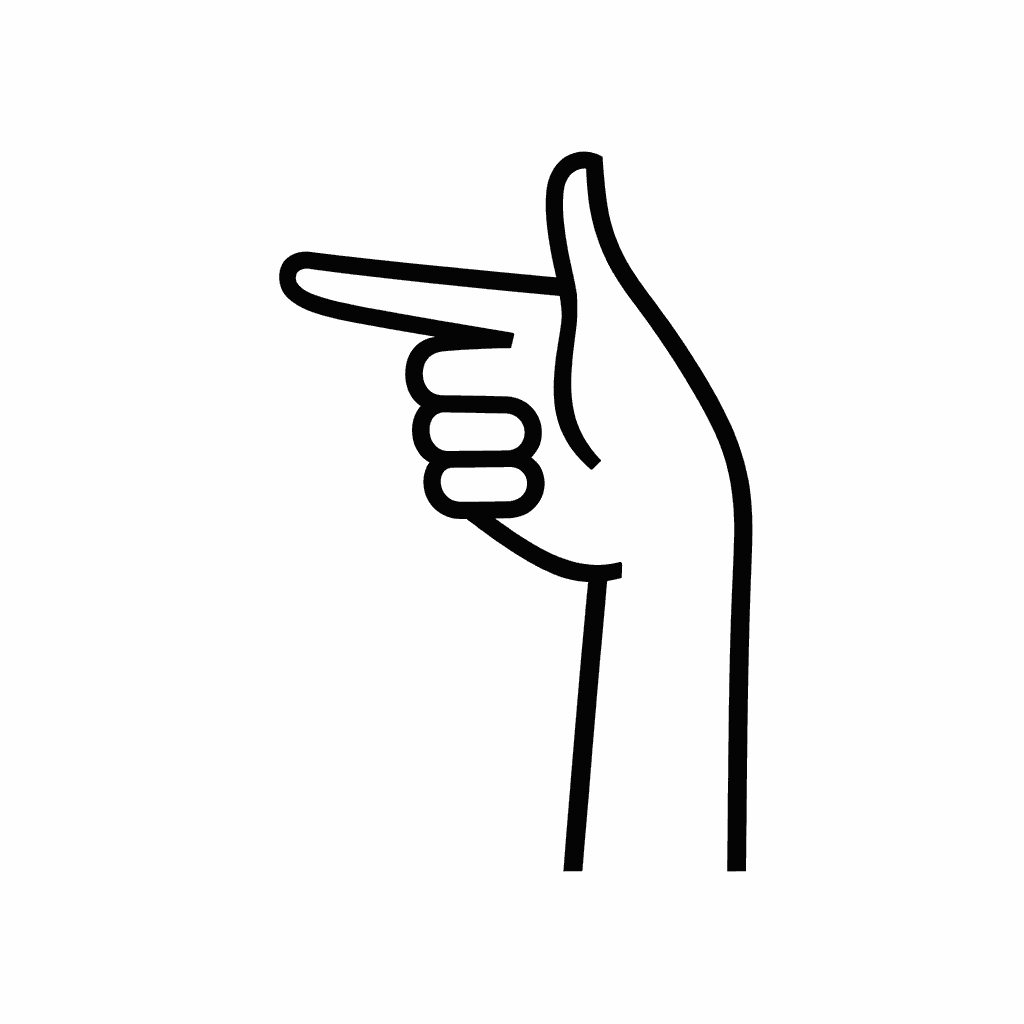
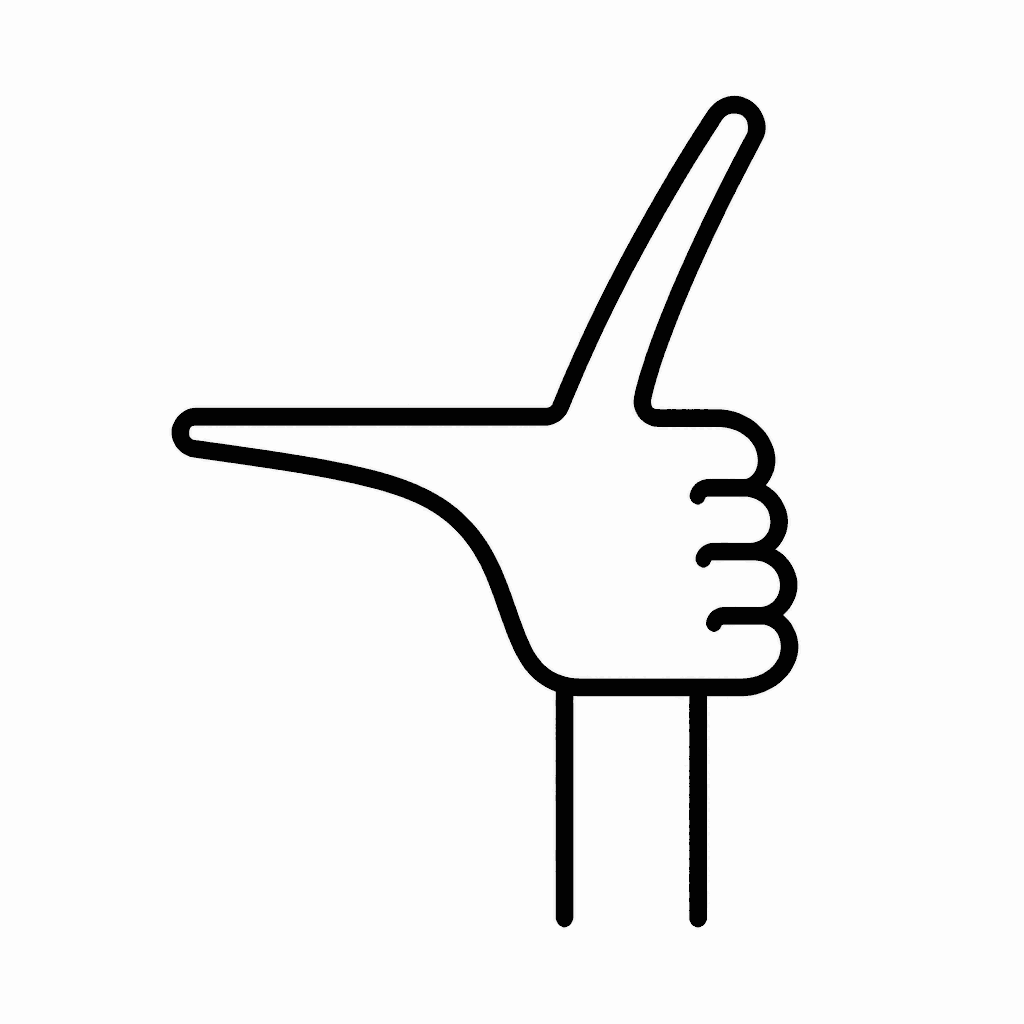
design: re-roll niente pictogram — thumb fully separated

Changed region(s): [[0.1562, 0.0938, 0.7812, 0.9062]]

diff --git a/docs/design/brand/gestures/PROMPTS.md b/docs/design/brand/gestures/PROMPTS.md
@@ -8,9 +8,13 @@ Subjects from Bruno Munari, *Speak Italian: The Fine Art of the Gesture*.
 
 > Minimalist pictogram in the style of Gerd Arntz and Isotype of the Italian pinched-fingers emoji gesture 🤌 exactly as in the emoji: a hand pointing upward with all five fingertips pressed together at a single pinch point at the top, the fingers fanning apart below the pinch so their separate lines are visible converging upward into the point, like a bird's closed beak pointing up or an upside-down cone. The short thumb is on one side pressing against the four longer fingers. The wrist and forearm rise diagonally from the bottom-right corner. Bold flat geometric reduction with a woodcut-print feel, drawn entirely in uniform-width black monoline strokes on a pure white background. No shading, no gradients, no gray, no text, no border. Square icon composition, generous empty margins, as few lines as possible so it reads instantly at 200 pixels.
 
-## niente.png (seed 52)
+## niente.png (seed 83, re-rolled)
 
-> Minimalist pictogram in the style of Gerd Arntz and Isotype: the Italian 'niente' (nothing, no good) hand gesture from Bruno Munari's gesture dictionary. A single hand seen from the side, caught mid-rotation at the wrist: the index finger extended straight and the thumb extended naturally at a right angle to it, the other three fingers curled into the palm shown as compact rounded knuckles. The thumb is slender and finger-like, not a flat paddle. Wrist and forearm enter from the bottom of the frame. Bold flat geometric reduction with a woodcut-print feel, drawn entirely in uniform-width black monoline strokes on a pure white background. No shading, no gradients, no gray, no text, no border. Square icon composition, generous empty margins, as few lines as possible so it reads instantly at small size.
+> Minimalist pictogram in the style of Gerd Arntz and Isotype: the Italian 'niente' (nothing, no good) hand gesture from Bruno Munari's gesture dictionary. The hand is a 3/4 front view caught in mid-wrist-rotation. GEOMETRY: index finger — a long straight horizontal stroke extending far left from the knuckle. Thumb — a long curved stroke rising diagonally up and slightly back (upper-right direction), same length as the index, meeting the palm at the base of the index knuckle — the two fingers create a wide open Y or L with a large triangular gap of white space between them; the white gap is clearly visible and wide. The palm — a compact rounded block. Curled fingers — three small rounded arch shapes (knuckles) stacked on the right side of the palm, each arch fully visible and separated. Forearm — two parallel lines descending from the palm bottom. The thumb base attaches at the left side of the palm, clearly away from the back-of-hand outline. MONOLINE uniform-width black strokes only, pure white background, no fill, no shading, no gray, no text. Square composition, generous white margins.
+
+Post-processing: strokes came out thinner than che-vuoi's, so they were
+thickened with `magick -colorspace Gray -morphology Erode Disk:4` before the
+8-color quantize.
 
 ## Iteration notes
 
@@ -21,3 +25,11 @@ Subjects from Bruno Munari, *Speak Italian: The Fine Art of the Gesture*.
 - niente: 1 refinement. Draft 1 read as a flat ASL-"L" with a paddle-like
   thumb; adding "thumb is slender and finger-like, not a flat paddle" and
   "curled fingers shown as compact rounded knuckles" cleaned it up.
+- niente re-roll (2026-06-10): the seed-52 version read as a finger-gun — the
+  thumb's edge merged straight into the back-of-hand contour at a tight 90°.
+  Fix: spell out the geometry stroke by stroke ("fully separated", "wide
+  triangular gap of white space", "thumb must NOT touch or merge with the
+  back of the hand outline"). Draft 1 (seed 71) separated the thumb but left
+  it a stub inside a fist-like box; draft 2 (seed 83, low) nailed the wide
+  open Y with visible knuckle arcs; the high-quality run on the same seed
+  kept the geometry and is the shipped version.